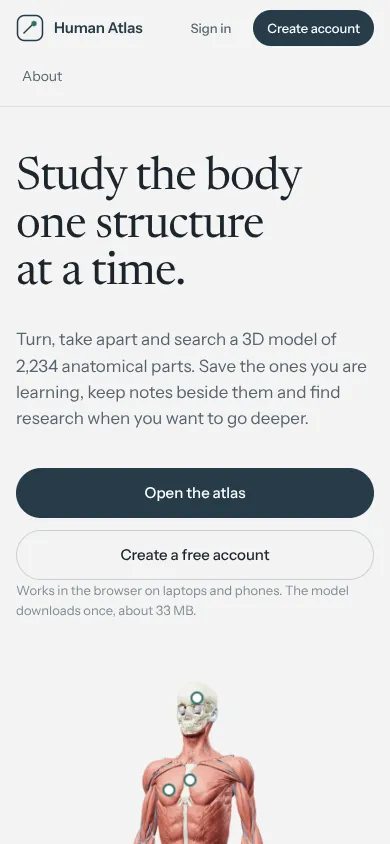
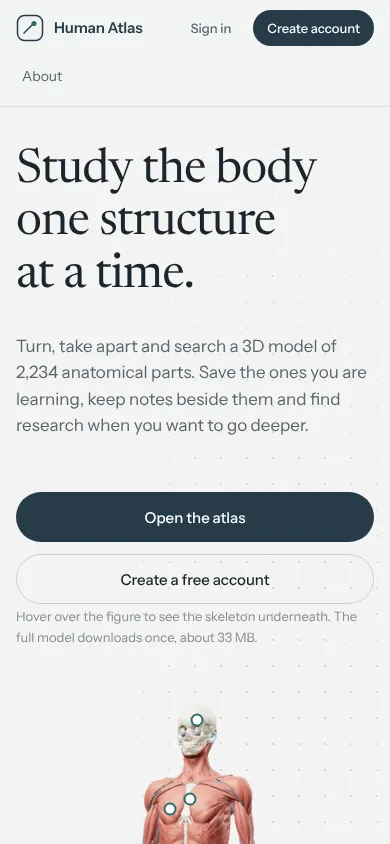
Add CA submission report, macOS one-click start script and updated screenshots

diff --git a/docs/CA-SUBMISSION.md b/docs/CA-SUBMISSION.md
@@ -1,0 +1,108 @@
+# CA-03 Submission: Full-Stack Web Application
+
+| | |
+| --- | --- |
+| **Project** | Human Atlas Learning Studio |
+| **Student** | Adhyayan Sonare |
+| **PRN** | 25070521186 |
+| **Institute** | Symbiosis Institute of Technology, Nagpur |
+| **Assessment** | Continuous Assessment 03: Full-stack web application |
+| **Repository** | https://github.com/AdhyayanSonare/human-atlas-learning-studio-ca |
+| **Stack** | React 19 (Vite) · Node.js + Express 5 · MongoDB (Mongoose) · JWT + bcrypt · PubMed API |
+
+## 1. Problem and objective
+
+Anatomy students learn hundreds of named structures, but textbooks show them flat and notes end up scattered. The objective was to build a web application where a student can explore a real 3D model of the human body, save the structures they are studying, keep personal notes on them and look up published research. Every user's data is stored privately in MongoDB.
+
+## 2. Requirement checklist
+
+| CA requirement | How it is met | Where |
+| --- | --- | --- |
+| Frontend in HTML, CSS, JavaScript and React | React 19 with React Router 7, TypeScript/JSX, CSS (Tailwind 4 plus hand-written styles), GSAP animation, built with Vite | `client/` |
+| Backend in Node.js | Express 5 REST API | `server/src/` |
+| Database inspectable in MongoDB Compass | MongoDB via Mongoose: `users`, `savedStructures`, `studyNotes` in database `human_atlas_studio` | `server/src/models/` |
+| Frontend and backend integration | The React app calls `/api/*` (Vite proxy in development; Express serves the build in single-server mode). All data shown in Study Space comes from MongoDB | `client/app/site/api.ts` |
+| Authentication | Registration, login, logout and session check. Passwords hashed with bcrypt (12 rounds). JWT kept in an HttpOnly, SameSite=Lax cookie. Protected routes on both client and server | `server/src/routes/auth.js`, `client/app/site/auth.tsx` |
+| Login page and hero page | `/login`, `/register` and an animated landing hero | `client/app/site/pages/` |
+| Additional meaningful pages | Interactive 3D Atlas, Systems directory, Study Space dashboard, About | see section 3 |
+| External API integration | NCBI PubMed E-utilities: "Related research" for any structure, called from the server with timeout, cache and throttling | `server/src/services/pubmed.js` |
+| CRUD operations | Saved structures: create, read, delete. Notes: create, read, update, delete | `server/src/routes/` |
+| Responsive design | Tested at 1440, 1280, 1024, 390 and 360 px widths | screenshots below |
+
+## 3. Pages
+
+| Route | Page | What it does |
+| --- | --- | --- |
+| `/` | Landing (hero) | Animated anatomy plate: layers swap with a scan line, an X-ray lens shows the skeleton under the cursor, and labels open structures in the atlas. Scroll-driven explode sequence, count-up figures, system marquees and a timeline that draws itself |
+| `/login` | Sign in | Validation, error messages, loading state, redirect back to the requested page |
+| `/register` | Create account | Display name, email, password and confirmation; duplicate emails are rejected |
+| `/app/atlas` | 3D Atlas (protected) | 2,234 selectable parts, 15 systems, search, isolate, explode, plus Save, Note and Research actions |
+| `/app/systems` | Systems (protected) | Filterable directory of the 15 systems with live part counts and links into the atlas |
+| `/app/study-space` | Study Space (protected) | Saved structures, notes (create, edit, delete), filter notes by structure, statistics from the user's data |
+| `/about` | About | Technology, attribution and a clear split between reused and newly built work |
+
+![Landing](screenshots/landing.webp)
+![Explode scene](screenshots/landing-explode.webp)
+![Atlas with study actions](screenshots/atlas-study-actions.webp)
+![Study Space](screenshots/study-space.webp)
+![Systems](screenshots/systems.webp)
+
+## 4. Database design (MongoDB Compass)
+
+Database: `human_atlas_studio`
+
+```
+users             { _id, displayName, email (unique, lowercase), passwordHash (bcrypt), createdAt, updatedAt }
+savedStructures   { _id, user → users._id, structureId, name, system, pieces, createdAt }   unique index (user, structureId)
+studyNotes        { _id, user → users._id, structureId, structureName, content, createdAt, updatedAt }
+```
+
+To demonstrate this in Compass: register, save a structure, add a note, then refresh the three collections. The password field shows a bcrypt hash such as `$2b$12$…`, never the plain password.
+
+## 5. REST API
+
+| Method | Endpoint | Protected | Purpose |
+| --- | --- | --- | --- |
+| GET | `/api/health` | | API and database status |
+| POST | `/api/auth/register` | | Create an account |
+| POST | `/api/auth/login` | | Sign in |
+| POST | `/api/auth/logout` | | Sign out |
+| GET | `/api/auth/me` | ✓ | Current user |
+| GET / POST | `/api/saved-structures` | ✓ | List or save structures |
+| DELETE | `/api/saved-structures/:id` | ✓ | Remove a saved structure |
+| GET / POST | `/api/notes` | ✓ | List or create notes |
+| PATCH / DELETE | `/api/notes/:id` | ✓ | Edit or delete a note |
+| GET | `/api/research?term=` | ✓ | Up to five PubMed articles |
+
+Security: the user id always comes from the verified cookie, never from the request body. Every query filters by `{ _id, user }`, so one user cannot read, edit or delete another user's records (tested). Sign-in and research are rate-limited, and every input is validated.
+
+## 6. Testing
+
+| Check | Result |
+| --- | --- |
+| `npm test`: 9 API integration tests against a real MongoDB-protocol server (registration, hashing, duplicate email, login/logout, protected routes, duplicate save, notes CRUD, cross-user isolation, PubMed parsing and failure) | 9 / 9 pass |
+| Browser end-to-end: register → atlas deep link → save → note → research → Study Space → refresh persists → edit → create → delete → logout → protected redirect | Pass |
+| Upstream model validation (`validate-atlas.mjs`, `validate-interactions.mjs`) | Pass |
+| TypeScript check and production build | Pass |
+| Live PubMed response format checked against `eutils.ncbi.nlm.nih.gov` | Matches parser |
+
+## 7. Reused work and attribution
+
+The 3D viewer (Three.js renderer, anatomy model, system toggles, search, isolation and exploded view) is the open-source **Human Atlas** project by ashemag, released under the MIT licence. Its code was reused, not rewritten. The anatomy data is **BodyParts3D**, © The Database Center for Life Science, released under CC BY 4.0. The first commit in the repository is the unmodified upstream import, so every later commit shows exactly what was added for this CA.
+
+Built for this CA: the landing page and all of its animation, routing, the authentication pages, Systems, Study Space, About, the study actions inside the atlas, the whole Express/MongoDB backend, the PubMed integration, the tests and the documentation.
+
+## 8. How to run
+
+```sh
+# macOS one-click: double-click start-mac.command
+# or manually:
+npm run install:all
+cp server/.env.example server/.env      # set MONGODB_URI and JWT_SECRET
+npm run dev:server                       # http://localhost:5050
+npm run dev:client                       # http://localhost:3016
+```
+
+## 9. Future scope
+
+Spaced-repetition quizzes generated from saved structures, shared study groups, and deployment with a managed MongoDB Atlas cluster.

diff --git a/README.md b/README.md
@@ -6,9 +6,22 @@ Built for a college Continuous Assessment (full-stack web application) with **Re
 
 ![Landing page](docs/screenshots/landing.webp)
 
-| Atlas with study actions | Study Space |
+| Scroll-driven explode scene | Atlas with study actions |
 | --- | --- |
-| ![Atlas](docs/screenshots/atlas-study-actions.webp) | ![Study Space](docs/screenshots/study-space.webp) |
+| ![Explode scene](docs/screenshots/landing-explode.webp) | ![Atlas](docs/screenshots/atlas-study-actions.webp) |
+| **Study Space** | **Create account** |
+| ![Study Space](docs/screenshots/study-space.webp) | ![Register](docs/screenshots/register.webp) |
+
+## Design and motion
+
+The interface uses the Atlas's own palette (cool paper, slate ink, teal) with Newsreader and Instrument Sans. Animation is built with **GSAP 3** (ScrollTrigger and SplitText) through `@gsap/react`'s `useGSAP`, so every tween and ScrollTrigger is cleaned up when the component unmounts.
+
+- **Hero anatomy plate:** five aligned renders of the real model (muscles, skeleton, circulation, organs, skeleton and organs) swap with a teal scan-line wipe on a timer. Each layer chip shows its own progress. Hovering the figure opens an **X-ray lens** that shows the skeleton beneath the cursor, and the labels draw in and open that structure in the atlas.
+- **Headline:** split into masked lines that rise in, followed by the lede and magnetic call-to-action buttons. A soft glow follows the pointer.
+- **Take it apart:** a pinned, scroll-scrubbed scene that dissolves through six real explode renders (0–100%), with a live readout and stage list.
+- **Facts:** count up on entry. **Systems:** two marquees drift in opposite directions, speed up with scroll velocity and slow down on hover. **Study timeline:** draws itself as you scroll. **Closing statement:** lights up word by word.
+- **App pages:** route transitions, staggered reveals on Systems and About, counting statistics in Study Space, and toast and press feedback on save, edit and delete.
+- **Reduced motion:** every animation is wrapped in `gsap.matchMedia()`. With *Reduce motion* turned on, the page renders its final states with no movement.
 
 ## What it does
 
@@ -41,7 +54,7 @@ Deep links work: `/app/atlas?structure=FMA7088` opens the heart, and `/app/atlas
 
 | Layer | Stack |
 | --- | --- |
-| Frontend | React 19, TypeScript, Vite 8, React Router 7, Tailwind CSS 4, shadcn/Base UI components, Three.js |
+| Frontend | React 19, TypeScript, Vite 8, React Router 7, GSAP 3 (ScrollTrigger, SplitText), Tailwind CSS 4, shadcn/Base UI components, Three.js |
 | Backend | Node.js 22+, Express 5, Mongoose 8 |
 | Database | MongoDB (local Community Server or MongoDB Atlas) |
 | Auth | bcryptjs (12 rounds), JSON Web Token in an HttpOnly, SameSite=Lax cookie |
@@ -56,7 +69,7 @@ human-atlas-learning-studio-ca/
 │   │   ├── page.tsx           Human Atlas viewer (reused, with small hooks added)
 │   │   ├── scene.tsx          Three.js scene (reused, unchanged)
 │   │   ├── anatomy.ts         Systems and types (reused)
-│   │   └── site/              New: routes, pages, API client, auth, styles
+│   │   └── site/              New: routes, pages, API client, auth, styles, landing/ animation scenes
 │   ├── public/models/         BodyParts3D geometry (CC BY 4.0)
 │   └── vite.config.ts         Proxies /api to the Express server in development
 ├── server/
@@ -99,6 +112,10 @@ Edit `server/.env`: set `MONGODB_URI` and set `JWT_SECRET` to a long random valu
 ```sh
 node -e "console.log(require('crypto').randomBytes(48).toString('hex'))"
 ```
+
+### Quick start on macOS
+
+Double-click **`start-mac.command`** in Finder. It checks Node.js, starts MongoDB (installing it with Homebrew the first time), creates `server/.env` with a random secret, installs dependencies, starts both servers and opens the browser.
 
 ### 4. Start (two terminals)
 
